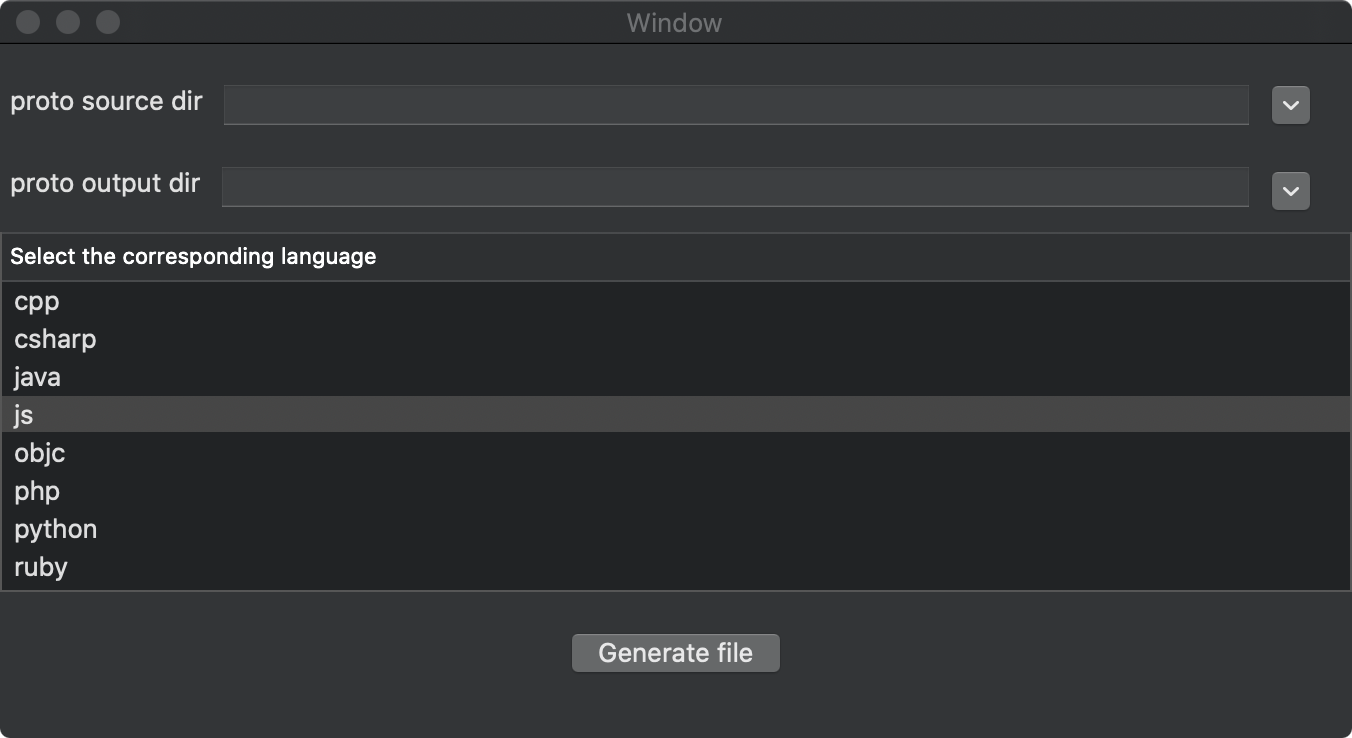
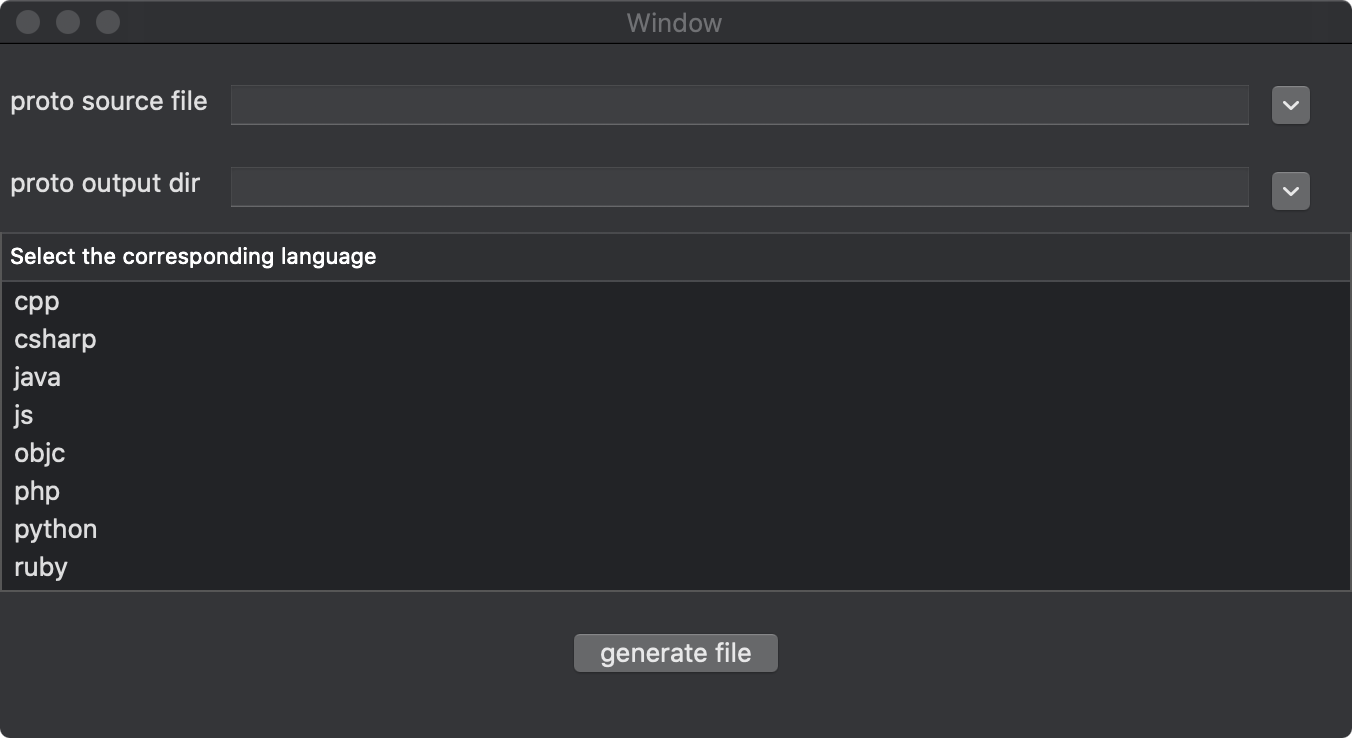
CCAutoTag push : alert

Changed region(s): [[0.0, 0.5298, 1.0, 0.5921], [0.4349, 0.8726, 0.5592, 0.9038], [0.1243, 0.1247, 0.1553, 0.1558]]

diff --git a/CCProtobufTool/ViewController.swift b/CCProtobufTool/ViewController.swift
@@ -16,19 +16,23 @@ class ViewController: NSViewController, NSTableViewDataSource, NSTableViewDelega
     
     var selectLanguage: String?
     
+    func alert(_ info: String) {
+        let alert = NSAlert()
+        alert.alertStyle = .informational
+        alert.addButton(withTitle: "OK")
+        alert.informativeText = info
+        alert.runModal()
+    }
+    
     
     @IBAction func generateFileHandle(_ sender: Any) {
         if list.selectedRow < 0 {
-            let alert = NSAlert()
-            alert.alertStyle = .informational
-            alert.addButton(withTitle: "OK")
-            alert.informativeText = "Select the corresponding language"
-            alert.runModal()
+            alert("Select the corresponding language!")
             return
         }
         
         if let language = selectLanguage {
-            print(language)
+            alert("It's still being update! generate file for " + language)
         }
     }
     
